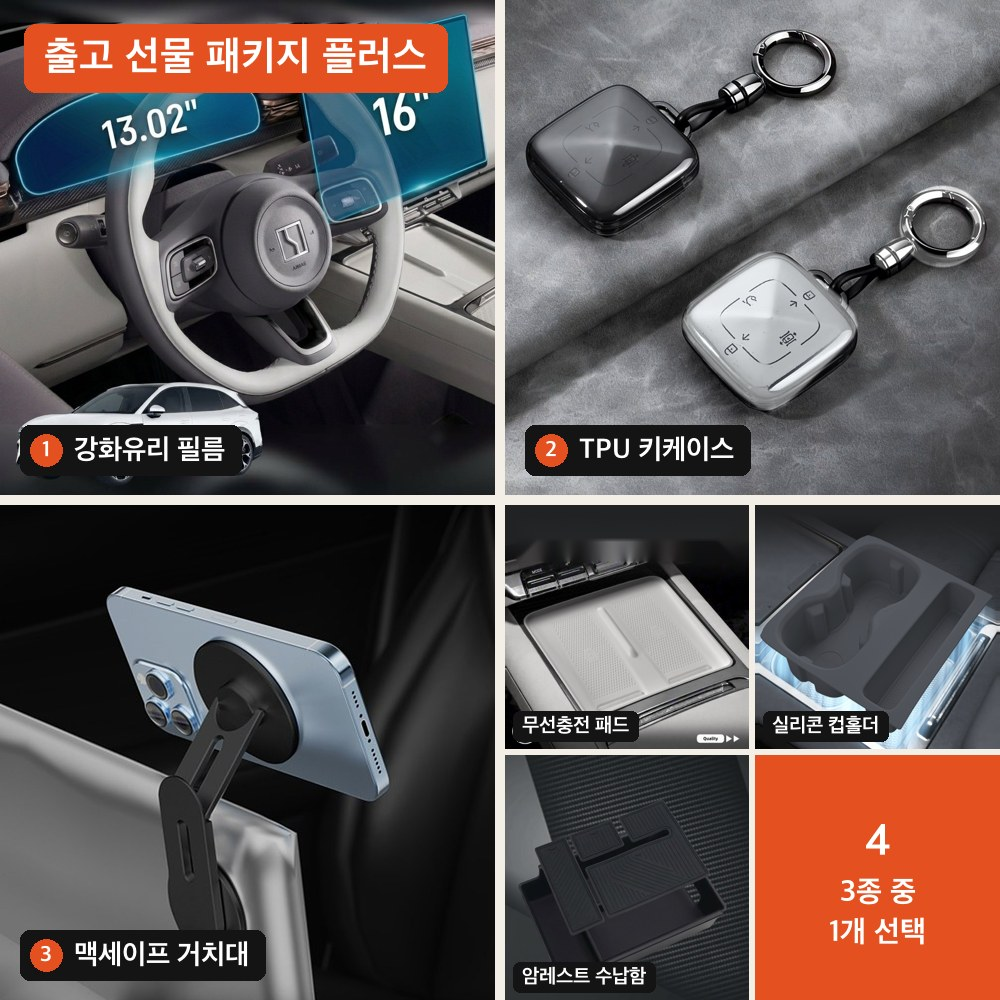
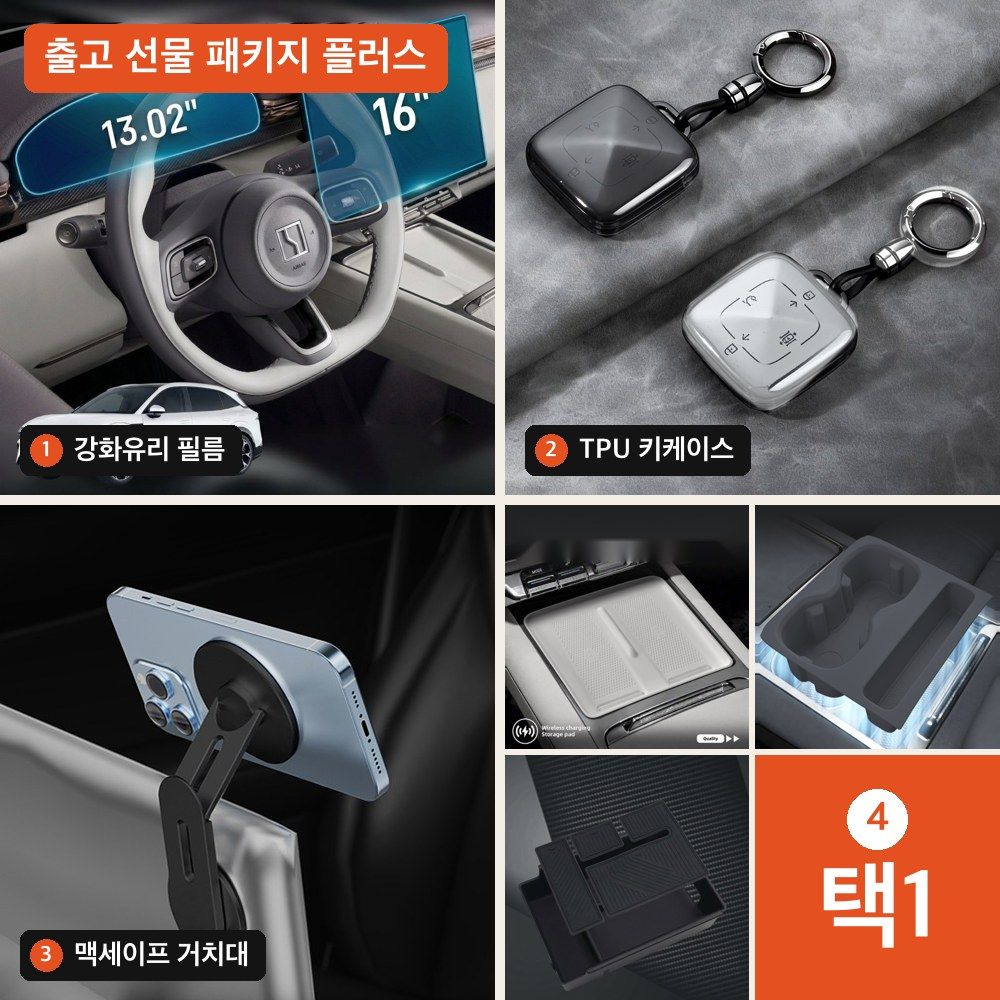
패키지 플러스 대표 이미지: 택1 칸 크게

diff --git a/shop/index.html b/shop/index.html
@@ -13,18 +13,18 @@ if (/github\.io$/.test(location.hostname)) location.replace('https://bringgo.pag
 <meta property="og:title" content="bringgo for ZEEKR 7X">
 <meta property="og:description" content="지커 7X 실내 액세서리 딜러 전용 주문">
 <meta property="og:url" content="https://bringgo.pages.dev/shop/">
-<meta property="og:image" content="https://bringgo.pages.dev/shop/img/brand/og.jpg?v=10202352">
+<meta property="og:image" content="https://bringgo.pages.dev/shop/img/brand/og.jpg?v=10202355">
 <meta property="og:image:width" content="1200">
 <meta property="og:image:height" content="630">
 <meta name="twitter:card" content="summary_large_image">
-<meta name="twitter:image" content="https://bringgo.pages.dev/shop/img/brand/og.jpg?v=10202352">
+<meta name="twitter:image" content="https://bringgo.pages.dev/shop/img/brand/og.jpg?v=10202355">
 <link rel="icon" type="image/png" sizes="32x32" href="img/brand/favicon-32.png">
 <link rel="icon" type="image/png" sizes="64x64" href="img/brand/favicon-64.png">
 <link rel="apple-touch-icon" href="img/brand/apple-touch-icon.png">
 <meta name="theme-color" content="#f3f1ec">
 <link rel="stylesheet" href="https://cdn.jsdelivr.net/npm/pretendard@1.3.9/dist/web/variable/pretendardvariable-dynamic-subset.min.css">
 <link rel="stylesheet" href="https://fonts.googleapis.com/css2?family=Oswald:wght@500;600&display=swap">
-<link rel="stylesheet" href="shop.css?v=10202352">
+<link rel="stylesheet" href="shop.css?v=10202355">
 </head>
 <body>
 <header>
@@ -39,8 +39,8 @@ if (/github\.io$/.test(location.hostname)) location.replace('https://bringgo.pag
 
 <script src="https://cdn.jsdelivr.net/npm/@supabase/supabase-js@2"></script>
 <script src="https://t1.daumcdn.net/mapjsapi/bundle/postcode/prod/postcode.v2.js"></script>
-<script src="config.js?v=10202352"></script>
-<script src="common.js?v=10202352"></script>
-<script src="shop.js?v=10202352"></script>
+<script src="config.js?v=10202355"></script>
+<script src="common.js?v=10202355"></script>
+<script src="shop.js?v=10202355"></script>
 </body>
 </html>

diff --git a/shop/admin.html b/shop/admin.html
@@ -13,8 +13,8 @@ if (/github\.io$/.test(location.hostname)) location.replace('https://bringgo.pag
 <meta name="theme-color" content="#f3f1ec">
 <link rel="stylesheet" href="https://cdn.jsdelivr.net/npm/pretendard@1.3.9/dist/web/variable/pretendardvariable-dynamic-subset.min.css">
 <link rel="stylesheet" href="https://fonts.googleapis.com/css2?family=Oswald:wght@500;600&display=swap">
-<link rel="stylesheet" href="shop.css?v=10202352">
-<link rel="stylesheet" href="admin.css?v=10202352">
+<link rel="stylesheet" href="shop.css?v=10202355">
+<link rel="stylesheet" href="admin.css?v=10202355">
 </head>
 <body>
 <header>
@@ -27,8 +27,8 @@ if (/github\.io$/.test(location.hostname)) location.replace('https://bringgo.pag
 <div id="toast"></div>
 
 <script src="https://cdn.jsdelivr.net/npm/@supabase/supabase-js@2"></script>
-<script src="config.js?v=10202352"></script>
-<script src="common.js?v=10202352"></script>
-<script src="admin.js?v=10202352"></script>
+<script src="config.js?v=10202355"></script>
+<script src="common.js?v=10202355"></script>
+<script src="admin.js?v=10202355"></script>
 </body>
 </html>

diff --git a/shop/config.js b/shop/config.js
@@ -8,6 +8,6 @@ window.SHEET_URL = 'https://docs.google.com/spreadsheets/d/19crq_-szVqdJRlVK12RK
 window.KAKAO_CHANNEL_URL = 'https://pf.kakao.com/_vtvxiX/chat';
 
 // 상품 사진 버전 (사진을 교체하면 숫자를 올려 주세요)
-window.ASSET_V = '10202352';
+window.ASSET_V = '10202355';
 // 토스페이먼츠 클라이언트 키 (공개용 · test_ck_… 또는 live_ck_…). 비어 있으면 카드결제 숨김. 시크릿 키는 절대 여기 넣지 말 것 → Supabase Edge Function Secrets
 window.TOSS_CLIENT_KEY = '';
